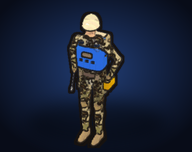
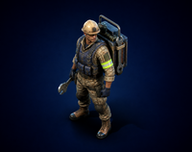
Painted infantry cameos and country-specific cameos
Adds AI-painted build icons for the Coalition rifleman, lancer, engineer and commando, plus
Thai-uniform rifleman and lancer used only when playing Thailand. make_cameos.py copies
tools/ai_cameos over the rendered cameos; BuildButton and the selection panel look for a
<type>_<country> cameo first.

Claude-Session: https://claude.ai/code/session_016cv2CrFtMMhevY8c62bwiX

diff --git a/rts-game/tools/make_cameos.py b/rts-game/tools/make_cameos.py
@@ -76,6 +76,7 @@ UNITS = {
 }
 
 RENDERS = os.path.join(ROOT, "tools", "_bake_out", "cameos")             # hand-drawn (inked) renders
+AI_CAMEOS = os.path.join(ROOT, "tools", "ai_cameos")                       # painted icons (Canva AI), <type>_<faction|country>.png
 RENDERS_REAL = os.path.join(ROOT, "tools", "_bake_out", "cameos_real")   # realistic renders
 REAL_CATEGORIES = ("building", "defense", "vehicle")
 
@@ -141,5 +142,21 @@ def main():
             bg.convert("RGB").save(os.path.join(OUT, "%s_%s.png" % (t, faction)), optimize=True)
             print("cameo", t, faction)
 
+def apply_ai_cameos():
+    """Painted icons override the rendered ones. Files named after a country (e1_thailand.png)
+    become country-specific cameos that BuildButton prefers over the side's cameo."""
+    if not os.path.isdir(AI_CAMEOS):
+        return
+    for fn in sorted(os.listdir(AI_CAMEOS)):
+        if not fn.endswith(".png"):
+            continue
+        im = Image.open(os.path.join(AI_CAMEOS, fn)).convert("RGB")
+        s = max(W / im.width, H / im.height)
+        im = im.resize((round(im.width * s), round(im.height * s)), Image.LANCZOS)
+        x, y = (im.width - W) // 2, (im.height - H) // 2
+        im.crop((x, y, x + W, y + H)).save(os.path.join(OUT, fn), optimize=True)
+        print("ai cameo", fn[:-4])
+
 if __name__ == "__main__":
     main()
+    apply_ai_cameos()

diff --git a/rts-game/docs/DEVELOPER_GUIDE.md b/rts-game/docs/DEVELOPER_GUIDE.md
@@ -96,7 +96,10 @@ anchor (the model's ground origin; for structures the footprint's top corner), g
 frame count and extras (turret pivot, smoke points, structure height). `_mask.png` holds the
 team-colour mask that `SpriteLib.team_material()` uses to recolour per player.
 
-`make_cameos.py` takes building, defense and vehicle cameos from `cameos_real` and the rest from
+Painted cameos (made with an image generator) live in `tools/ai_cameos/<type>_<faction>.png`
+and override the rendered ones; a file named after a country (`e1_thailand.png`) becomes a
+country-specific cameo that `BuildButton.cameo_for()` prefers. `make_cameos.py` takes building,
+defense and vehicle cameos from `cameos_real` and the rest from
 the inked `cameos` renders, on a navy card plate; `BuildButton` draws the price tag, name bar and
 border on top. Walls use one sheet per side (`b_wall_<faction>`) with 32 frames: the neighbour
 mask (N=1, E=2, S=4, W=8) picks frames 0-15, damaged sections add 16 (`IsoView._wall_mask`).
